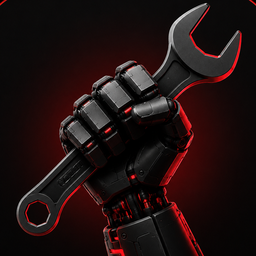
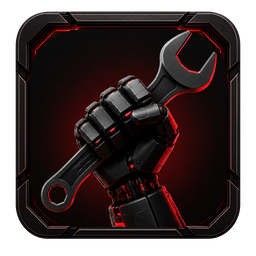
feat(web): рамка вокруг иконки платформы (как у остальных)
Новая иконка-кулак была full-bleed, без рамки-шасси, и выбивалась из ряда.
Вписал кулак с ключом в ту же рамку, что у продуктовых иконок (кольцо-рамка
взято от hh_icon → идентичная семейству: тёмный скруглённый квадрат, красная
неон-обводка, угловые вырезы). Кэш-бастер ?v поднят b→c.

diff --git a/index.html b/index.html
@@ -404,7 +404,7 @@
     <div class="eco-stage" id="eco-stage">
       <!-- ЯДРО -->
       <div class="eco-core" data-key="platform" data-slogan="Все инструменты в одном окне" data-detail="Единая точка входа в экосистему Vacantrix: один аккаунт, оплата и управление подпиской, скачивание и запуск любого инструмента без лишних шагов. Всё под рукой — с первого клика.">
-        <div class="disc"><img src="img/platform_icon.png?v=20260624b" alt="Vacantrix Platform" onerror="this.parentNode.textContent='✦'"></div>
+        <div class="disc"><img src="img/platform_icon.png?v=20260624c" alt="Vacantrix Platform" onerror="this.parentNode.textContent='✦'"></div>
         <div class="nm">Vacantrix Platform<small>лаунчер-магазин экосистемы</small></div>
       </div>
 

diff --git a/js/intro3d.js b/js/intro3d.js
@@ -44,7 +44,7 @@ import { LineMaterial } from 'three/addons/lines/LineMaterial.js';
     hh: 0xff5a67, avito: 0x4fd0ff, tasks: 0x68e6a0, publisher: 0xff7a86,
     leads: 0xff9e57, monitor: 0x5ad1ff, analytics: 0xffd166,
   };
-  const IMG_V = '?v=20260624b';                        // кэш-бастер иконок (обновляй при замене файла)
+  const IMG_V = '?v=20260624c';                        // кэш-бастер иконок (обновляй при замене файла)
   const ICON = {
     platform: 'img/platform_icon.png' + IMG_V, hh: 'img/hh_icon.png' + IMG_V, avito: 'img/avito_icon.png' + IMG_V,
     tasks: 'img/tasks_icon.png' + IMG_V, publisher: 'img/publisher_icon.png' + IMG_V, leads: 'img/leads_icon.png' + IMG_V,